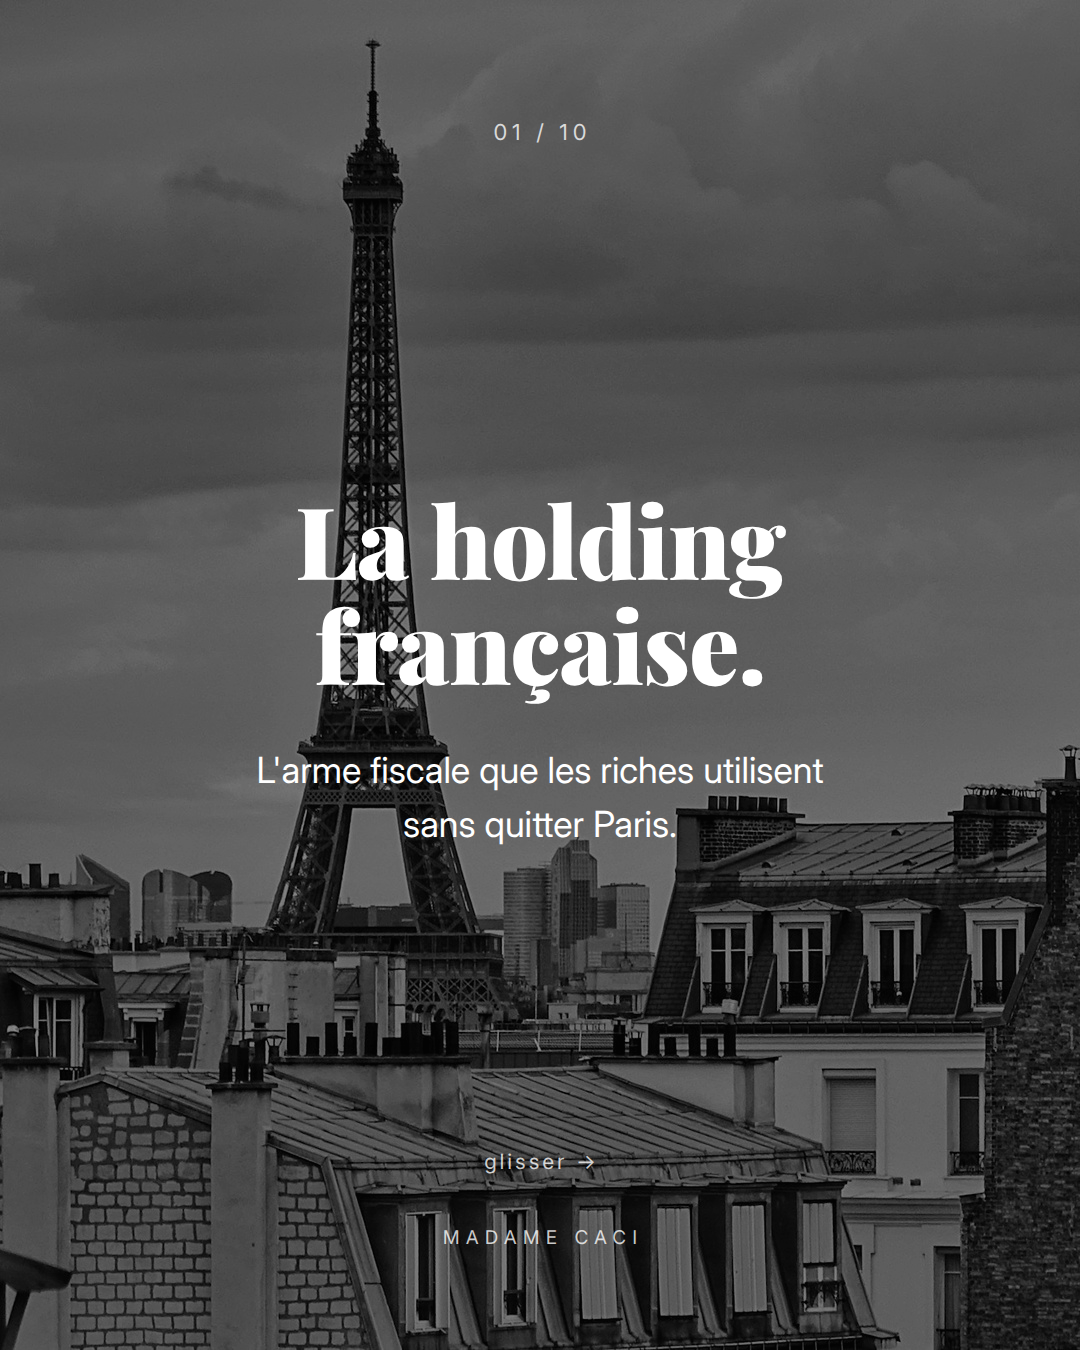
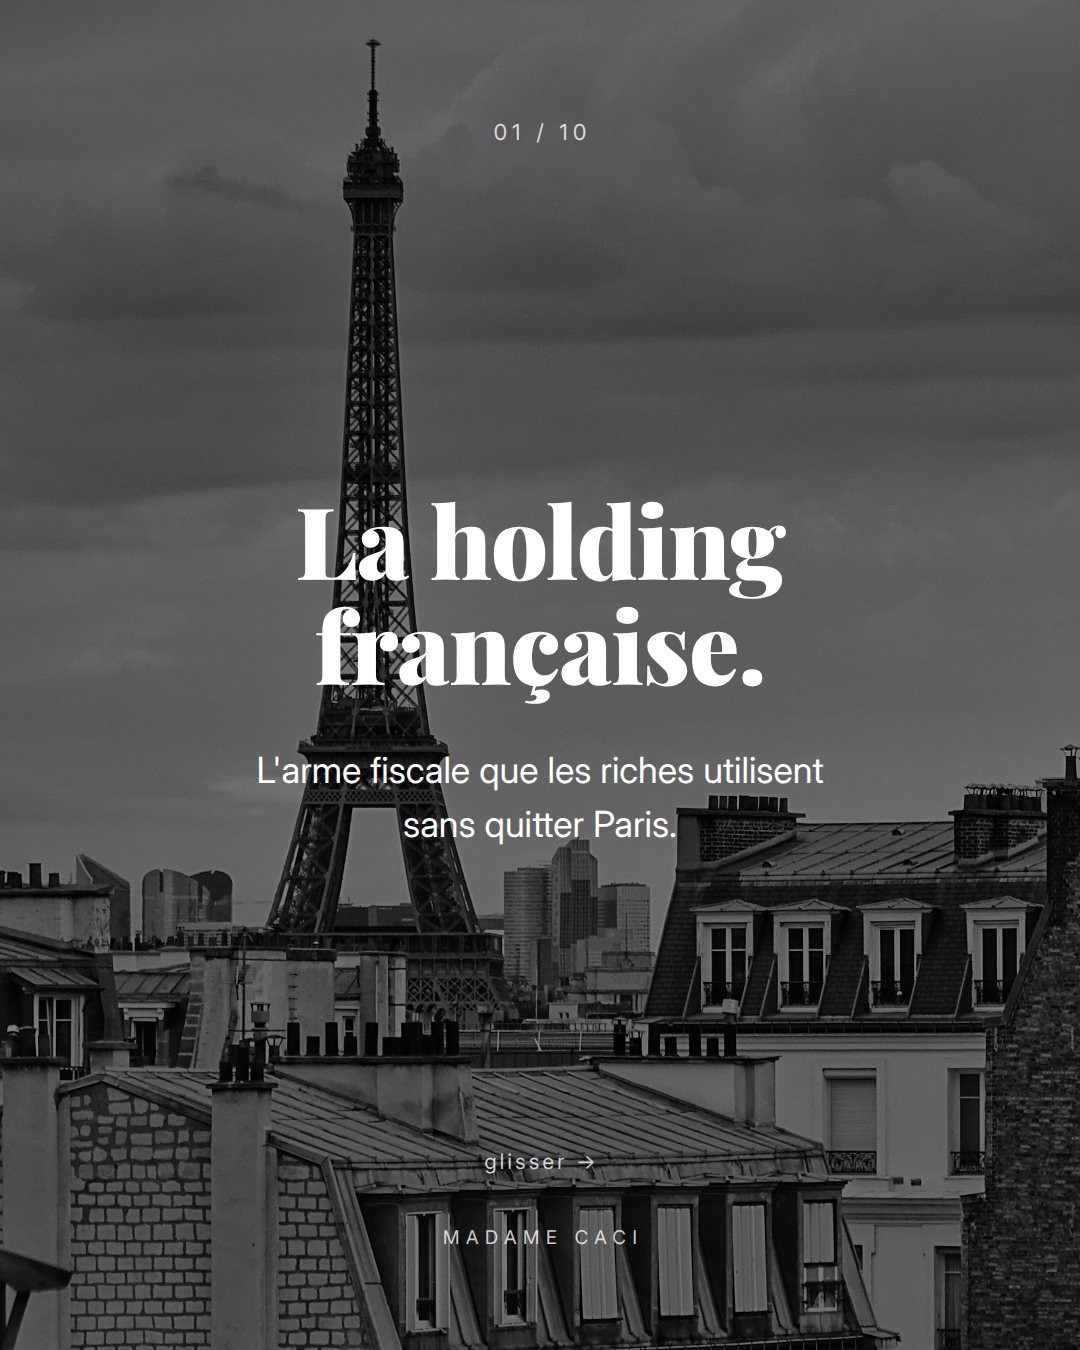
Export : archive unique de tous les carrousels, en 1x et 2x
- render.js accepte --scale N (deviceScaleFactor) : --scale 2 rend en
  2160x2700 dans output-2x/, le controle de dimensions suit l'echelle
- src/pack.js (npm run pack) rend les 6 carrousels termines dans les deux
  resolutions, renomme les PNG <carrousel>-NN.png, ajoute un LISEZ-MOI et
  empaquette le tout dans export/fynovates-carrousels.zip ; l'archive
  n'est pas produite si un rendu sort non conforme
- photo de couverture holding regeneree en 2160x2700 depuis l'original
  Unsplash (meme cadrage, mesure par recalage sur l'ancien fichier) :
  elle etait a la taille exacte du 1x et montait mal en 2x
- output-2x/ et export/ ignores par git

Claude-Session: https://claude.ai/code/session_01JgjaVc8GDMA4sZRNpbXpxq

Changed region(s): [[0.9167, 0.6844, 0.9472, 0.7156], [0.825, 0.6844, 0.8556, 0.7156], [0.7333, 0.6844, 0.7639, 0.7156]]

diff --git a/carrousel/src/pack.js b/carrousel/src/pack.js
@@ -1,0 +1,115 @@
+/* ============================================================
+   FYNOVATES — Export : rend tous les carrousels et les empaquette
+   dans une seule archive ZIP telechargeable.
+
+   Usage : node src/pack.js            (tous les carrousels finis)
+           node src/pack.js holding    (un seul)
+
+   Produit export/fynovates-carrousels.zip :
+     instagram-1080x1350/<deck>/<deck>-01.png   -> a poster tel quel
+     haute-def-2160x2700/<deck>/<deck>-01.png   -> print, slides, reprise
+   ============================================================ */
+
+const fs = require('fs');
+const path = require('path');
+const { execFileSync } = require('child_process');
+
+const ROOT = path.join(__dirname, '..');
+const EXPORT = path.join(ROOT, 'export');
+const STAGE = path.join(EXPORT, 'fynovates-carrousels');
+
+// Carrousels termines et valides. (vatican : encore en cours de validation,
+// fisc-b : variante de couverture non retenue — volontairement hors archive.)
+const DECKS = [
+  { key: null,       name: 'salaire',  titre: 'Personne ne devient riche avec un salaire' },
+  { key: 'euro',     name: 'euro',     titre: 'Le vrai ticket de caisse de ton business' },
+  { key: 'surcote',  name: 'surcote',  titre: 'Les 5 destinations les plus surcotees pour s\'expatrier en 2026' },
+  { key: 'fisc',     name: 'fisc',     titre: 'Les signaux qui font de toi une priorite du fisc' },
+  { key: 'holding',  name: 'holding',  titre: 'La holding francaise' },
+  { key: 'dm',       name: 'dm',       titre: 'Pose ta question a un tax advisor' },
+];
+
+const SCALES = [
+  { scale: 1, dir: 'instagram-1080x1350', src: 'output' },
+  { scale: 2, dir: 'haute-def-2160x2700', src: 'output-2x' },
+];
+
+const pad2 = n => String(n).padStart(2, '0');
+
+const only = process.argv.slice(2);
+const decks = only.length ? DECKS.filter(d => only.includes(d.name)) : DECKS;
+if (!decks.length) { console.error(`Carrousel inconnu : ${only.join(', ')}`); process.exit(1); }
+
+// 1. rendu de chaque carrousel dans chaque resolution
+let fail = 0;
+for (const d of decks) {
+  for (const s of SCALES) {
+    const args = ['src/render.js'];
+    if (d.key) args.push('--deck', d.key);
+    if (s.scale > 1) args.push('--scale', String(s.scale));
+    const out = execFileSync('node', args, { cwd: ROOT, encoding: 'utf-8' });
+    const ko = out.includes('A CORRIGER');
+    if (ko) { fail++; console.log(out); }
+    const n = out.match(/slide-\d+\.png/g)?.length || 0;
+    console.log(`${d.name.padEnd(9)} ${String(s.scale) + 'x'}  ${n} slides  ${ko ? 'A CORRIGER' : 'OK'}`);
+  }
+}
+if (fail) { console.error(`\n${fail} rendu(s) non conforme(s) : archive non produite.`); process.exit(1); }
+
+// 2. mise en forme de l'arborescence livree
+fs.rmSync(STAGE, { recursive: true, force: true });
+let total = 0;
+for (const d of decks) {
+  for (const s of SCALES) {
+    const from = path.join(ROOT, s.src, d.key || '');
+    const to = path.join(STAGE, s.dir, d.name);
+    fs.mkdirSync(to, { recursive: true });
+    const pngs = fs.readdirSync(from).filter(f => /^slide-\d+\.png$/.test(f)).sort();
+    pngs.forEach(f => {
+      const n = Number(f.match(/\d+/)[0]);
+      fs.copyFileSync(path.join(from, f), path.join(to, `${d.name}-${pad2(n)}.png`));
+      total++;
+    });
+  }
+}
+
+// 3. note de lecture dans l'archive
+const lignes = decks.map(d => {
+  const n = fs.readdirSync(path.join(STAGE, SCALES[0].dir, d.name)).length;
+  return `  ${d.name.padEnd(9)} ${String(n).padStart(2)} slides   ${d.titre}`;
+});
+fs.writeFileSync(path.join(STAGE, 'LISEZ-MOI.txt'),
+`FYNOVATES — CARROUSELS INSTAGRAM
+${new Date().toISOString().slice(0, 10)}
+
+CARROUSELS
+${lignes.join('\n')}
+
+DEUX DOSSIERS, MEMES IMAGES
+  instagram-1080x1350/  PNG a la taille native du feed Instagram.
+                        C'est CE dossier qu'on poste : aucune mise a
+                        l'echelle avant la compression d'Instagram.
+  haute-def-2160x2700/  Les memes slides rendues au double. Pour le
+                        print, une presentation, un site, une reprise.
+                        Inutile pour un post Instagram. Tout le texte y est
+                        deux fois plus fin (il est vectoriel, re-rendu a la
+                        taille) ; quelques photos et l'avion du carrousel
+                        "surcote" sont limites par leur fichier source et
+                        n'y gagnent pas de detail.
+
+Les fichiers sont nommes dans l'ordre de publication
+(<carrousel>-01.png, -02.png, ...) : un import groupe dans Instagram
+respecte cet ordre alphabetique.
+
+PNG = compression sans perte : ces fichiers sont la qualite maximale
+possible, le texte est du vrai texte vectoriel rendu a la taille finale.
+`, 'utf-8');
+
+// 4. archive
+fs.mkdirSync(EXPORT, { recursive: true });
+const zip = path.join(EXPORT, 'fynovates-carrousels.zip');
+fs.rmSync(zip, { force: true });
+execFileSync('zip', ['-r', '-q', '-9', zip, 'fynovates-carrousels'], { cwd: EXPORT });
+
+const mo = (fs.statSync(zip).size / 1048576).toFixed(1);
+console.log(`\n${total} PNG dans ${path.relative(ROOT, zip)}  (${mo} Mo)`);

diff --git a/carrousel/src/render.js b/carrousel/src/render.js
@@ -1,7 +1,9 @@
 /* ============================================================
    FYNOVATES — Rendu HTML -> PNG 1080x1350 (Playwright / Chromium)
-   Usage : node src/render.js            (les 9 slides)
-           node src/render.js 1 2 4      (seulement 01, 02 et 04)
+   Usage : node src/render.js                  (les 9 slides)
+           node src/render.js 1 2 4            (seulement 01, 02 et 04)
+           node src/render.js --deck holding   (un autre carrousel)
+           node src/render.js --scale 2        (export 2160x2700 dans output-2x/)
    ============================================================ */
 
 const fs = require('fs');
@@ -12,6 +14,10 @@ const argv = process.argv.slice(2);
 const di = argv.indexOf('--deck');
 const DECK = di !== -1 ? argv[di + 1] : null;
 if (di !== -1) argv.splice(di, 2);
+// Facteur d'echelle : 1 = 1080x1350 (taille native Instagram), 2 = 2160x2700
+const si = argv.indexOf('--scale');
+const SCALE = si !== -1 ? Math.max(1, Math.round(Number(argv[si + 1]))) : 1;
+if (si !== -1) argv.splice(si, 2);
 
 const { DECOR, slides } = require(DECK ? `./slides-${DECK}.js` : './slides.js');
 // feuille de styles propre au deck si elle existe (direction artistique distincte)
@@ -21,7 +27,7 @@ const ROOT = path.join(__dirname, '..');
 const SUB = DECK ? path.join('', DECK) : '';          // sous-dossier par deck
 const REL = DECK ? '../..' : '..';                     // profondeur vers la racine du projet
 const DIR_HTML = path.join(ROOT, 'slides', SUB);
-const DIR_PNG  = path.join(ROOT, 'output', SUB);
+const DIR_PNG  = path.join(ROOT, SCALE > 1 ? `output-${SCALE}x` : 'output', SUB);
 const W = 1080, H = 1350, MARGIN = 80;
 
 const pad2 = n => String(n).padStart(2, '0');
@@ -58,7 +64,7 @@ ${slide.main}
   // Chromium pré-installé dans l'environnement (pas de téléchargement)
   const CHROME = process.env.CHROME_PATH || '/opt/pw-browsers/chromium-1194/chrome-linux/chrome';
   const browser = await chromium.launch(fs.existsSync(CHROME) ? { executablePath: CHROME } : {});
-  const page = await browser.newPage({ viewport: { width: W, height: H }, deviceScaleFactor: 1 });
+  const page = await browser.newPage({ viewport: { width: W, height: H }, deviceScaleFactor: SCALE });
 
   const report = [];
 
@@ -120,7 +126,7 @@ ${slide.main}
     report.push({
       slide: pad2(n),
       png: `${buf.readUInt32BE(16)}x${buf.readUInt32BE(20)}`,
-      dims_ok: buf.readUInt32BE(16) === W && buf.readUInt32BE(20) === H,
+      dims_ok: buf.readUInt32BE(16) === W * SCALE && buf.readUInt32BE(20) === H * SCALE,
       dom_ok: audit.docW === W && audit.docH === H,
       issues: audit.issues
     });
@@ -128,7 +134,7 @@ ${slide.main}
 
   await browser.close();
 
-  console.log('\n=== RENDU ===');
+  console.log(`\n=== RENDU ${DECK || 'salaire'} — ${W * SCALE}x${H * SCALE} ===`);
   let fail = 0;
   for (const r of report) {
     const ok = r.dims_ok && r.dom_ok && r.issues.length === 0;
